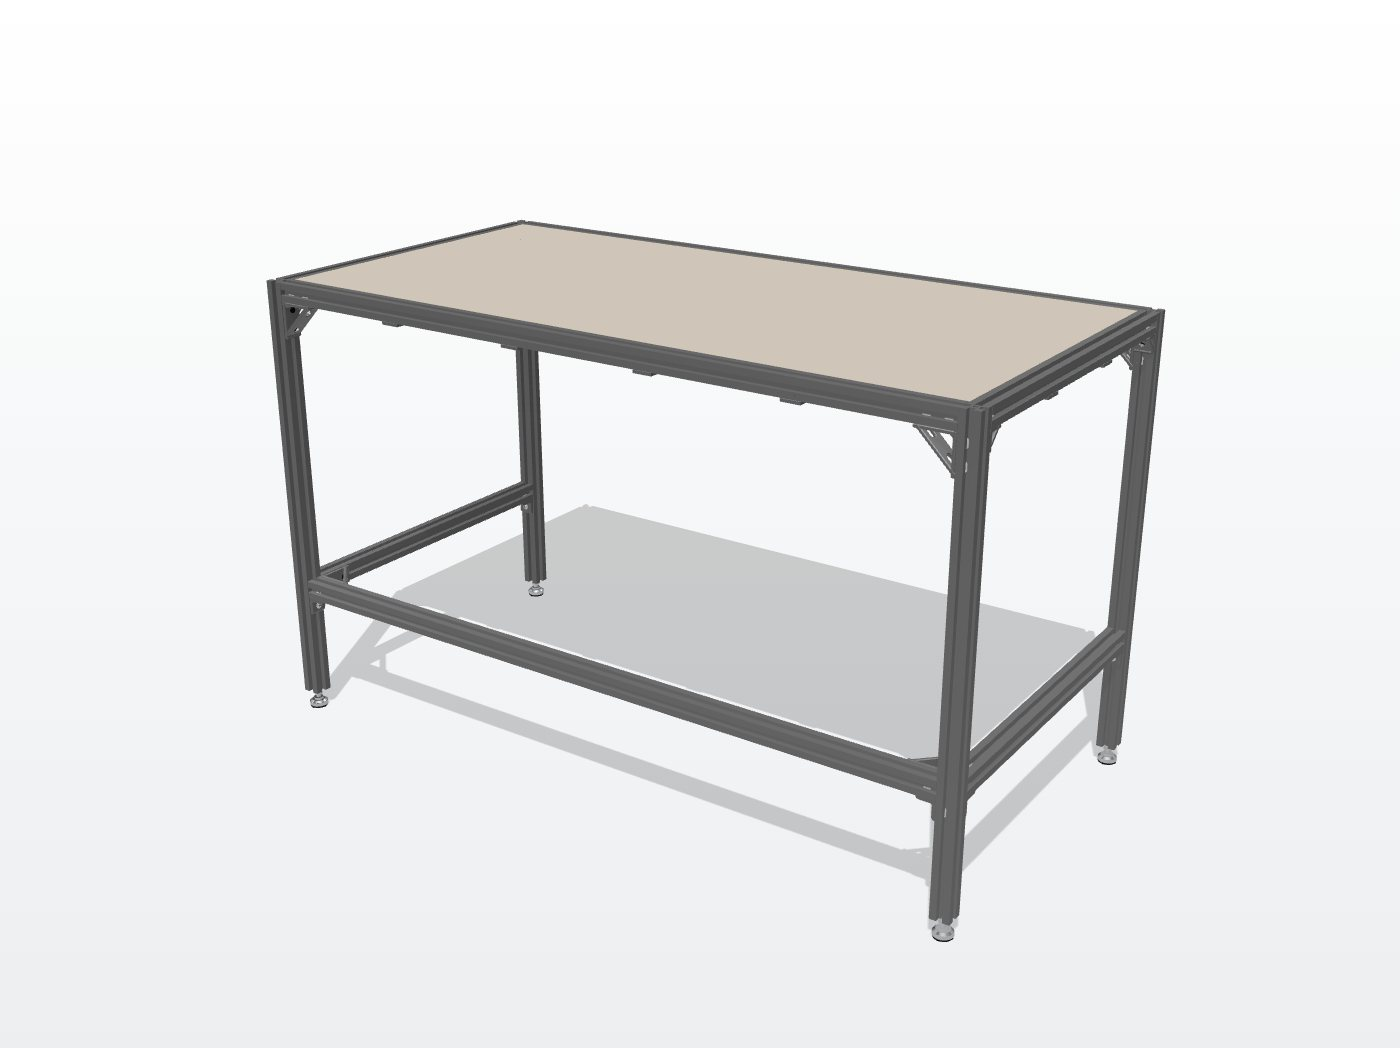
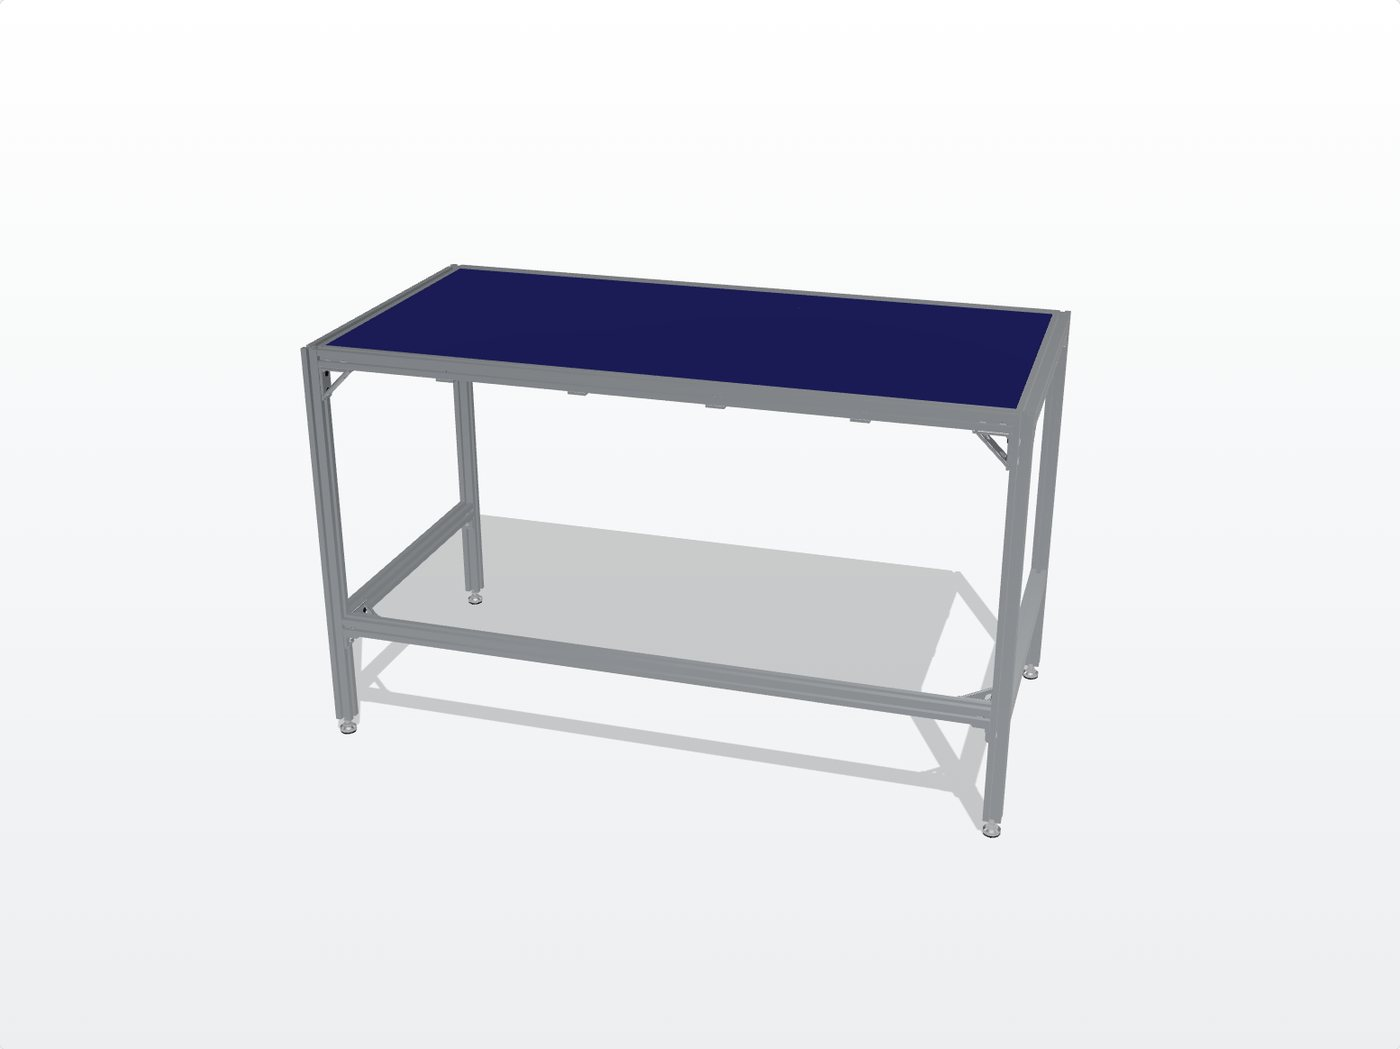
Desk: indigo linoleum by default and a satin anodised aluminium frame like the shelf's metal
Claude-Session: https://claude.ai/code/session_01An6R85YA8gxnkFC8BwHjCM

Changed region(s): [[0.1843, 0.2137, 0.8293, 0.916]]

diff --git a/src/scene.js b/src/scene.js
@@ -4,6 +4,10 @@ import { RoomEnvironment } from 'three/addons/environments/RoomEnvironment.js';
 
 const chrome = new THREE.MeshPhysicalMaterial({ color: 0xe6e8eb, metalness: 1, roughness: 0.08 });
 const alu = new THREE.MeshPhysicalMaterial({ color: 0xcfd3d7, metalness: 0.85, roughness: 0.38 });
+// Clear anodised T-slot profile: the same fully metallic base as the chrome rods, but satin
+// (rougher) under a thin clear coat, so it reads as aluminium rather than painted grey.
+const profileMaterial = (color = '#c4c8cc') =>
+  new THREE.MeshPhysicalMaterial({ color, metalness: 1, roughness: 0.3, clearcoat: 0.4, clearcoatRoughness: 0.25 });
 const dark = new THREE.MeshStandardMaterial({ color: 0x1a1a1c, metalness: 0.5, roughness: 0.5 });
 const acrylic = new THREE.MeshPhysicalMaterial({
   color: 0x202d6a, metalness: 0, roughness: 0.18, transmission: 0.9, thickness: 8, ior: 1.49,
@@ -513,7 +517,7 @@ export function renderParts(design) {
 
   if (design.kind === 'desk') {
     const { p, input } = design;
-    const frame = new THREE.MeshPhysicalMaterial({ color: input.frameColor ?? '#949494', metalness: 0.8, roughness: 0.42 });
+    const frame = profileMaterial(input.frameColor);
     const bar = profileBar(p, p * 4, frame);
     const nut = tNut(p);
     nut.scale.setScalar(3);
@@ -883,7 +887,7 @@ function buildDesk(design) {
   const g = new THREE.Group();
   const { input, p, size, prof, railZ, legLength, stretcherZ, withStretchers, midRail, footHeight: fh, parts } = design;
   const { width: W, depth: D, topThickness: tt } = input;
-  const frame = new THREE.MeshPhysicalMaterial({ color: input.frameColor ?? '#949494', metalness: 0.8, roughness: 0.42 });
+  const frame = profileMaterial(input.frameColor);
   const X = (x) => x - W / 2;
   const Z = (y) => y - D / 2;
   const at = (x, y, z) => new THREE.Vector3(X(x), z, Z(y));
@@ -1009,7 +1013,7 @@ function buildDesk(design) {
     const ply = add(mesh(new THREE.BoxGeometry(tw, lino ? tt - 2 : tt, td), wood), `Plywood top ${tw} × ${td} mm`);
     ply.position.set(cx, topZ + (lino ? (tt - 2) / 2 : tt / 2), 0);
     if (lino) {
-      const sheetL = add(mesh(new THREE.BoxGeometry(tw, 2, td), new THREE.MeshStandardMaterial({ color: input.topColor ?? '#c9b8a3', roughness: 0.9 })), 'Linoleum');
+      const sheetL = add(mesh(new THREE.BoxGeometry(tw, 2, td), new THREE.MeshStandardMaterial({ color: input.topColor ?? '#171353', roughness: 0.9 })), 'Linoleum');
       sheetL.position.set(cx, topZ + tt - 1, 0);
     }
   }

diff --git a/src/desk.js b/src/desk.js
@@ -10,9 +10,9 @@ export const DESK_DEFAULTS = {
   profile: 'auto', // 'auto' or 20 / 30 / 40
   topThickness: 19, // 3/4 in plywood (with linoleum), flush between the top rails
   topFinish: 'linoleum', // 'linoleum' or 'plain'
-  topColor: '#c9b8a3',
+  topColor: '#171353', // deep indigo linoleum
   stretchers: 'yes', // low side + back stretchers
-  frameColor: '#949494',
+  frameColor: '#c4c8cc', // clear anodised aluminium
   centreRail: 'no', // optional rail across the middle; splits the top into two panels
   loadKg: 50, // spread over the top: monitors, arms, things
   showTop: 'yes', // 3D view only: hide the top to see the frame and joining plates

diff --git a/DESIGN.md b/DESIGN.md
@@ -144,7 +144,7 @@ Reuse these; don't add a second version of any of them.
 The model should look like a product photo of real parts, not a game.
 
 - `MeshPhysicalMaterial` with real metalness and roughness: polished chrome rods
-  (roughness 0.08), anodised aluminium profile (0.38), transmissive acrylic (IOR 1.49).
+  (roughness 0.08), satin anodised aluminium profile (metalness 1, roughness 0.3, a light clear coat), transmissive acrylic (IOR 1.49).
 - ACES filmic tone mapping at exposure 0.75, a `RoomEnvironment` for reflections, one soft
   shadowed sun and a shadow catcher on the ground.
 - Model real hardware from manufacturer drawings (T-Nutz, McMaster, CPlot), down to bolts and
